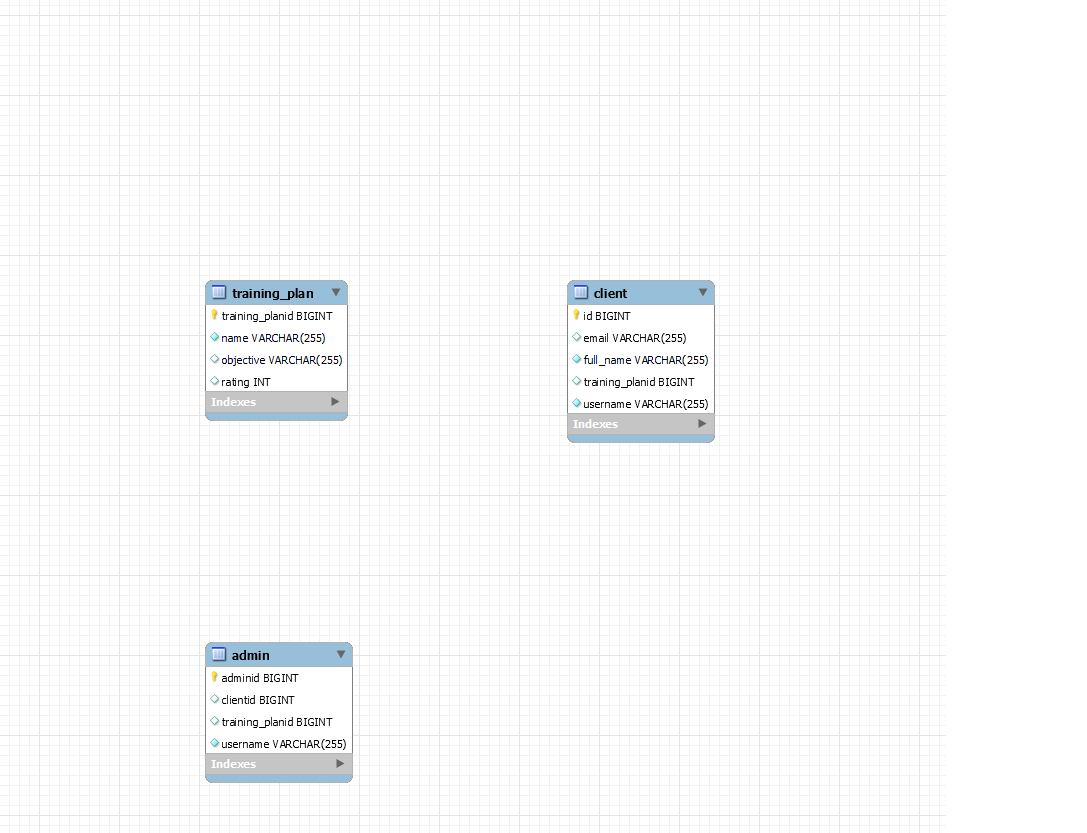
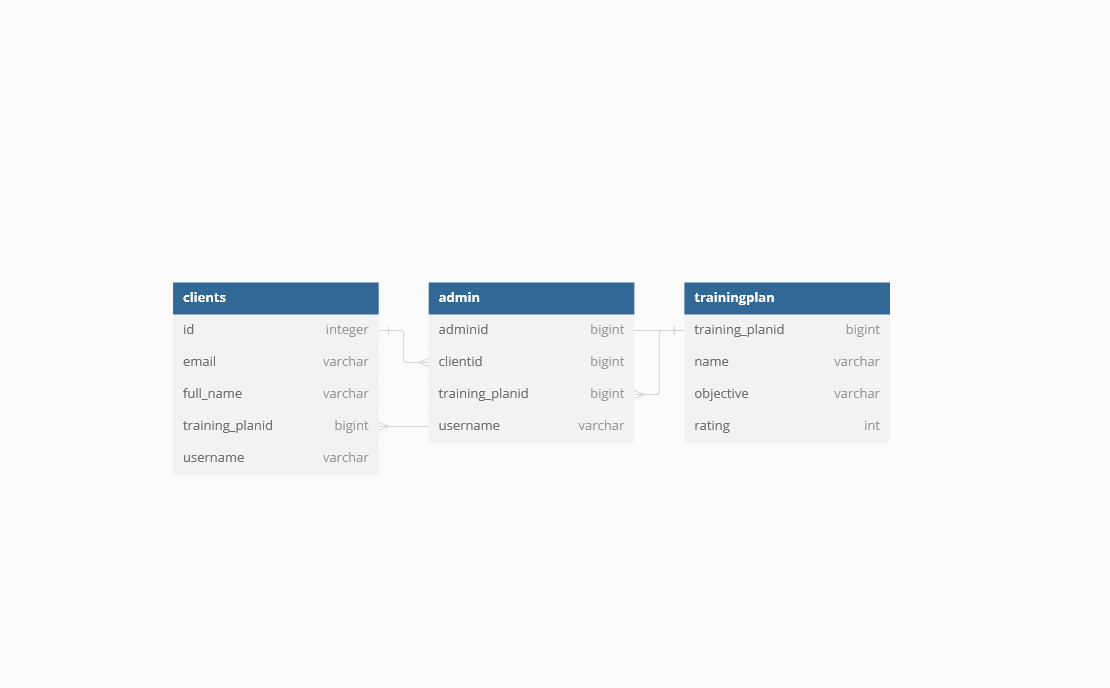
added better database diagram and added documentation in markdown

diff --git a/README.md b/README.md
@@ -1,1 +1,32 @@
-# FitnessCoach
+# Fitness Coach App Documentation
+
+## Overview
+The Fitness Coach App is a sophisticated application designed to provide personalized training plans to users based on their fitness objectives. Utilizing the Spring Boot framework, Java programming language, and SQL database management, this app offers a seamless experience for both fitness coaches and clients.
+
+## Main Features
+### 1. Personalized Training Plans
+The core functionality of the Fitness Coach App revolves around creating customized training plans for each client. These plans are tailored to meet the individual's specific fitness goals, whether it's weight loss, muscle gain, or overall fitness improvement.
+
+### 2. SOLID Principles Integration
+The app is built adhering to the SOLID principles of object-oriented design, ensuring high cohesion, low coupling, and easy maintenance. Each module of the application is designed to have a single responsibility, promoting code reusability and extensibility.
+
+### 3. Spring Boot Framework
+The use of the Spring Boot framework provides a robust and scalable foundation for the Fitness Coach App. It offers features such as dependency injection, aspect-oriented programming, and easy configuration, facilitating rapid development and deployment of the application.
+
+### 4. Java Programming Language
+Java serves as the primary programming language for implementing the business logic and functionalities of the Fitness Coach App. Its object-oriented nature, platform independence, and extensive ecosystem make it an ideal choice for building enterprise-level applications.
+
+### 5. SQL Database Management
+The app utilizes SQL databases to store user information, training plans, and progress tracking data. SQL (Structured Query Language) enables efficient data retrieval, manipulation, and storage, ensuring the app's reliability and scalability.
+
+## How It Works
+1. **User Registration**: Clients register on the app by providing their personal details and fitness objectives.
+   
+2. **Objective Assessment**: The app conducts a thorough assessment of the user's fitness goals, current fitness level, and any specific requirements or restrictions.
+
+3. **Algorithmic Analysis**: Based on the assessment, the app employs algorithms to generate a personalized training plan tailored to the user's objectives, preferences, and constraints.
+
+4. **Plan Presentation**: The generated training plan is presented to the user through an intuitive interface, detailing exercises, sets, repetitions, rest intervals, and progression metrics.
+
+## Conclusion
+The Fitness Coach App offers a comprehensive solution for individuals seeking personalized fitness guidance and training plans. By leveraging the power of Spring Boot, Java, and SQL, along with adherence to SOLID principles, the app provides a seamless and effective platform for achieving fitness goals.
